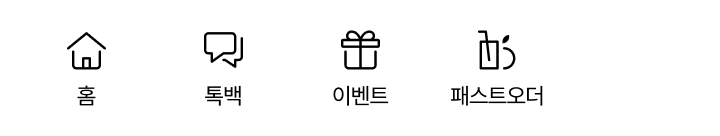
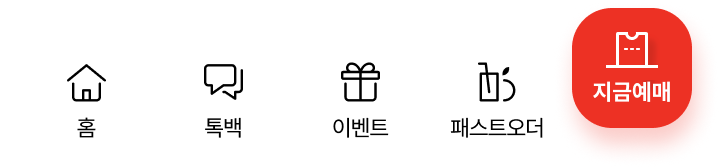
index

diff --git a/html/index.html b/html/index.html
@@ -1,40 +1,201 @@
 <!DOCTYPE html>
 <html lang="en">
+
 <head>
     <meta charset="UTF-8">
-    <meta name="viewport" content="width=device-width, initial-scale=1.0">
+    <meta name="viewport" content="width=device-width, initial-scale=1, maximum-scale=1" />
     <title>영화 그 이상의 다양하고 즐거운 몰입의 경험을 만듭니다. 라이프스타일 플랫폼 CGV</title>
-
     <script src="../js/jquery.js"></script>
-    <link rel="stylesheet" href="../css/main.css" type="text/css">
-
     <script src="../js/common.js"></script>
+
     <script src="../js/swiper.js"></script>
     <link rel="stylesheet" href="../css/swiper.css" type="text/css">
 
+    <link rel="stylesheet" href="../css/mo_main.css" type="text/css">
+    <link rel="stylesheet" href="../css/main_a.css" type="text/css">
+    <style>
+        body {background-color:#232323;}
+        body > div > div {width:100%;}
+        .action_bar {width:500px; margin-left:-250px; left:50%;}
+    </style>
     <script>
-        $(document).ready(function(){
+        $(document).ready(function () {
+            var option_visual = {
+                slidesPerView: 1.4,
+                /*autoplay: {
+                    delay: 3000,
+                },*/
+                spaceBetween: 20,
+                loop: false,
+                keyboard: {
+                    enabled: true,
+                },
+                on: {
+                    init: function () { },
+                    slideChange: function () {
+                        $('#wrap').attr('class', 'main bg_0'+(swiper.realIndex + 1))
+                    },
+                },
+                navigation: {
+                    nextEl: '.visual .swiper-button-next',
+                    prevEl: '.visual .swiper-button-prev',
+                },
+            };
+
+            var option_sec04 = {
+                slidesPerView: 1.01,
+                autoplay: {
+                    delay: 3000,
+                },
+                spaceBetween: 8,
+                loop: false,
+                keyboard: {
+                    enabled: true,
+                },
+                pagination: {
+                    el: '.swiper-pagination',
+                    clickable: true,
+                },
+                on: {
+                    init: function () { },
+                    slideChange: function () { },
+                },
+                navigation: {
+                    nextEl: '.visual .swiper-button-next',
+                    prevEl: '.visual .swiper-button-prev',
+                },
+            };
+
+            var option_sec07 = {
+                slidesPerView: 1.45,
+                autoplay: {
+                    delay: 3000,
+                },
+                spaceBetween: 8,
+                loop: false,
+                keyboard: {
+                    enabled: true,
+                },
+                pagination: {
+                    el: '.sec07 .swiper-pagination',
+                    clickable: true,
+                },
+                on: {
+                    init: function () { },
+                    slideChange: function () { },
+                },
+                navigation: {
+                    nextEl: '.visual .swiper-button-next',
+                    prevEl: '.visual .swiper-button-prev',
+                },
+            };
+
+            var swiper = new Swiper('.visual.swiper-container', option_visual);
+
+            var swiper1 = new Swiper('.sec04 .swiper-container', option_sec04);
+            var swiper2 = new Swiper('.sec06 .swiper-container', option_sec04);
+            var swiper3 = new Swiper('.sec07 .swiper-container', option_sec07);
+        });
+
+        let preScrollTop = 0;
+
+        window.addEventListener('scroll', () => {
+            let nextScrollTop = window.scrollY;
+
+            if (preScrollTop < nextScrollTop) {
+                $('.action_bar').css({
+                    bottom: -($('.action_bar').height())
+                });
+            }
+            else { // (preScrollTop > nextScrollTop)
+                $('.action_bar').removeAttr('style');
+            }
+            preScrollTop = nextScrollTop;
         });
     </script>
 </head>
+
 <body>
-    <div id="wrap">
-        <header>
-        </header>
+    <div style="display:flex; justify-content:center;">
+        <!-- left -->
+        <div class="left">Left</div>
+        <!-- //left -->
+        <div style="width:500px; background-color:#fff; position:relative;">
+            <div id="wrap" class="main bg_01">
+                <header><img src="../images/mo/Type_A/header.png" alt="" /></header>
 
-        <div id="container">
-            <div class="content">
-                <a href="./mobile.html?type=B">Type B</a>
+                <div id="container">
+                    <div class="content">
+                        <section class="main_visual">
+                            <p style="margin:0 -20px;"><img src="../images/mo/Type_A/Menu.png" alt="" /></p>
+
+                            <div class="visual swiper-container">
+                                <ul class="swiper-wrapper">
+                                    <li class="swiper-slide"><img src="../images/mo/Type_A/Rank2.png" /></li>
+                                    <li class="swiper-slide"><img src="../images/mo/Type_A/Rank1.png" /></li>
+                                    <li class="swiper-slide"><img src="../images/mo/Type_A/Rank3.png" /></li>
+                                    <li class="swiper-slide"><img src="../images/mo/Type_A/Rank4.png" /></li>
+                                </ul>
+                            </div>
+                        </section>
+
+                        <div>
+                            <img src="../images/mo/Type_A/Frame 48114658.png" alt="" />
+                            <img src="../images/mo/Type_A/선호배우영화.png" alt="" />
+                        </div>
+
+                        <section class="sec04">
+                            <p style="margin:0 -20px;"><img src="../images/mo/Type_A/Frame-48114632.png" /></p>
+                            <div class="swiper-container">
+                                <ul class="swiper-wrapper">
+                                    <li class="swiper-slide"><img src="../images/mo/Type_A/Frame 48114666.png" /></li>
+                                    <li class="swiper-slide"><img src="../images/mo/Type_A/Frame 48114665.png" /></li>
+                                    <li class="swiper-slide"><img src="../images/mo/Type_A/Frame 48114660.png" /></li>
+                                </ul>
+                            </div>
+                            <p style="margin:40px -20px;"><img src="../images/mo/Type_A/Frame 48114646.png"/></p>
+                            <p style="margin:40px 0;"><img src="../images/mo/Type_A/Frame 48114646_1.png" /></p>
+                        </section>
+
+                        <section class="sec06">
+                            <p style="margin:0 -20px 24px;"><img src="../images/mo/Type_A/tit_06.png" /></p>
+                            <div class="swiper-container">
+                                <ul class="swiper-wrapper">
+                                    <li class="swiper-slide"><img src="../images/mo/Type_A/sec06_slide01.png" /></li>
+                                    <li class="swiper-slide"><img src="../images/mo/Type_A/sec06_slide02.png" /></li>
+                                    <li class="swiper-slide"><img src="../images/mo/Type_A/sec06_slide03.png" /></li>
+                                </ul>
+                                <div class="swiper-pagination"></div>
+                            </div>
+                            <p style="margin:48px -20px 0"><img src="../images/mo/Type_A/Frame-48114674.png"/></p>
+                        </section>
+
+                        <section class="sec07">
+                            <p style="margin:0 -20px 24px;"><img src="../images/mo/Type_A/tit_07.png" /></p>
+                            <div class="swiper-container">
+                                <ul class="swiper-wrapper">
+                                    <li class="swiper-slide"><img src="../images/mo/Type_A/sec07_slide01.png" /></li>
+                                    <li class="swiper-slide"><img src="../images/mo/Type_A/sec07_slide02.png" /></li>
+                                    <li class="swiper-slide"><img src="../images/mo/Type_A/sec07_slide03.png" /></li>
+                                    <li class="swiper-slide"><img src="../images/mo/Type_A/sec07_slide04.png" /></li>
+                                </ul>
+                            </div>
+                        </section>
+                    </div>
+                </div>
+                <footer><img src="../images/mo/Type_A/Footer.png" /></footer>
             </div>
-        </div>
-        <footer>
-        </footer>
-    </div>
 
-    <!-- toast -->
-    <div class="toast">
+            <!-- action bar -->
+            <div class="action_bar">
+                <a href="./mobile.html?type=A&path=지금예매"><img src="../images/mo/Type_A/action_bar.png"></a>
+            </div>
+            <!-- //action bar -->
+        </div>
+        <!-- right -->
+        <div class="right">Right</div>
+        <!-- //right -->
     </div>
-    <!-- //toast -->
 
     <!-- loading -->
     <div class="preloader_wrap">
@@ -53,6 +214,6 @@
         </div>
     </div>
     <!-- //loading -->
-    
 </body>
+
 </html>

diff --git a/html/mo_A_지금예매.html b/html/mo_A_지금예매.html
@@ -1,0 +1,78 @@
+<!DOCTYPE html>
+<html lang="en">
+<head>
+    <meta charset="UTF-8">
+    <meta name="viewport" content="width=device-width, initial-scale=1, maximum-scale=1" />
+    <title>영화 그 이상의 다양하고 즐거운 몰입의 경험을 만듭니다. 라이프스타일 플랫폼 CGV</title>
+    <script src="../js/jquery.js"></script>
+    <script src="../js/common.js"></script>
+
+    <script src="../js/swiper.js"></script>
+    <link rel="stylesheet" href="../css/swiper.css" type="text/css">
+
+    <link rel="stylesheet" href="../css/mo_main.css" type="text/css">
+    <link rel="stylesheet" href="../css/main_a.css" type="text/css">
+    <script>
+        $(document).ready(function(){
+        });
+
+        let preScrollTop = 0;
+
+        window.addEventListener('scroll',() => {
+            let nextScrollTop = window.scrollY;
+        
+            if(preScrollTop < nextScrollTop) {
+                $('.action_bar').css({
+                    bottom:-($('.action_bar').height())
+                });
+                $('.float_wrap').removeAttr('style');
+            }
+            else { // (preScrollTop > nextScrollTop)
+                $('.action_bar').removeAttr('style');
+                $('.float_wrap').css({
+                    bottom:$('.action_bar').height() + 20
+                });
+            }
+            preScrollTop = nextScrollTop;
+        });
+    </script>
+</head>
+<body>
+    <div id="wrap">
+        <header>
+        </header>
+
+        <div id="container">
+            <div class="content">
+                A Sub_01
+            </div>
+        </div>
+        <footer>
+        </footer>
+    </div>
+
+    <!-- action bar -->
+    <div class="action_bar">
+        <a href="./mo_A_지금예매.html"><img src="../images/mo/Type_A/action_bar.png"></a>
+    </div>
+    <!-- //action bar -->
+
+    <!-- loading -->
+    <div class="preloader_wrap">
+        <div class="preloader">
+            <div class="spinner_layer">
+                <div class="circle_clipper left">
+                    <div class="circle"></div>
+                </div>
+                <div class="gap_patch">
+                    <div class="circle"></div>
+                </div>
+                <div class="circle_clipper right">
+                    <div class="circle"></div>
+                </div>
+            </div>
+        </div>
+    </div>
+    <!-- //loading -->
+</body>
+</html>

diff --git a/html/mo_A_main.html b/html/mo_A_main.html
@@ -72,7 +72,7 @@
                     enabled: true,
                 },
                 pagination: {
-                    el: '.swiper-pagination',
+                    el: '.sec07 .swiper-pagination',
                     clickable: true,
                 },
                 on: {
@@ -178,7 +178,7 @@
 
     <!-- action bar -->
     <div class="action_bar">
-        <p><img src="../images/mo/Type_A/action_bar.png"></p>
+        <a href="./mo_A_지금예매.html"><img src="../images/mo/Type_A/action_bar.png"></a>
     </div>
     <!-- //action bar -->
 

diff --git a/css/main_a.css b/css/main_a.css
@@ -3,7 +3,8 @@
 #wrap {margin:0 auto; overflow-x:hidden;}
 img {max-width:100%; display:block;}
 
-.action_bar {box-shadow:0 -4px 20px 0 rgba(0,0,0,0.12);}
+.action_bar {border:0;}
+.action_bar:after {height:20px; margin-bottom:-20px; background-color:#fff; box-shadow:0 -4px 20px 0 rgba(0,0,0,0.12); content:''; position:absolute; bottom:80.952388%; right:0; left:0; z-index:-1; display:block;}
 
 .main {transition:background 0.25s;}
 .main.bg_01 {background:url('../images/mo/Type_A/BG1.png') 0 0 no-repeat; background-size:100% auto;}
